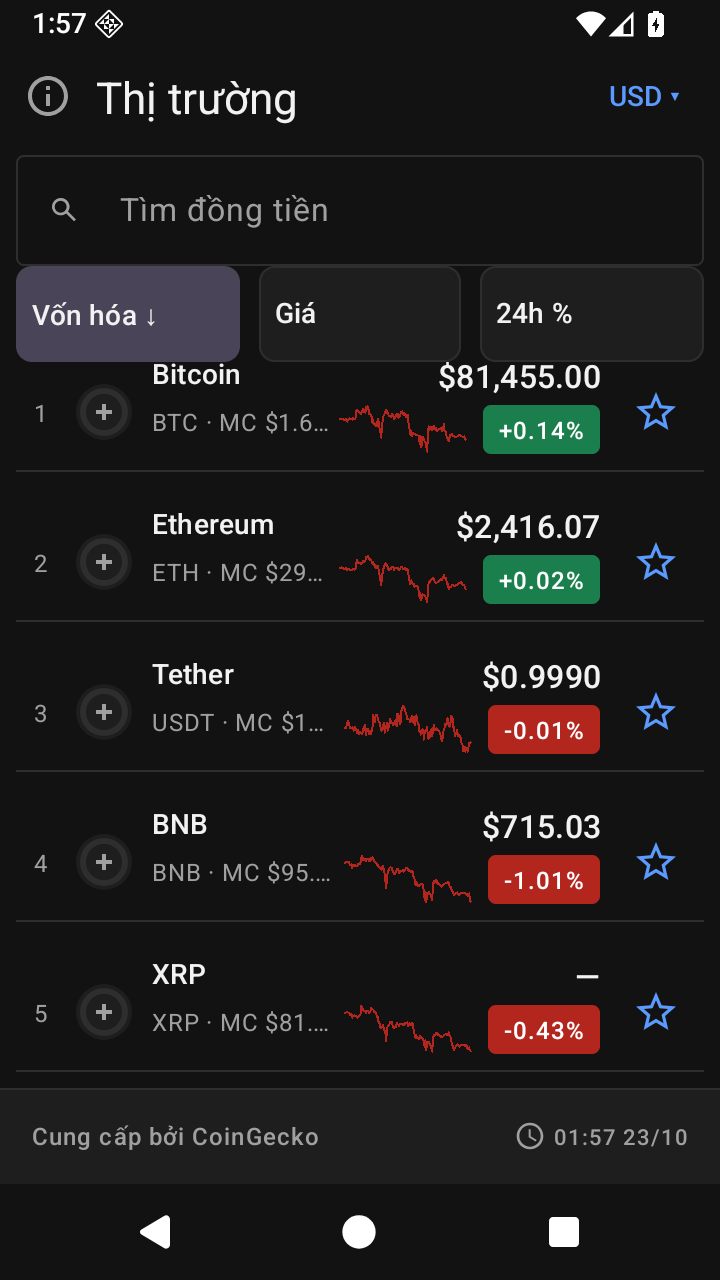
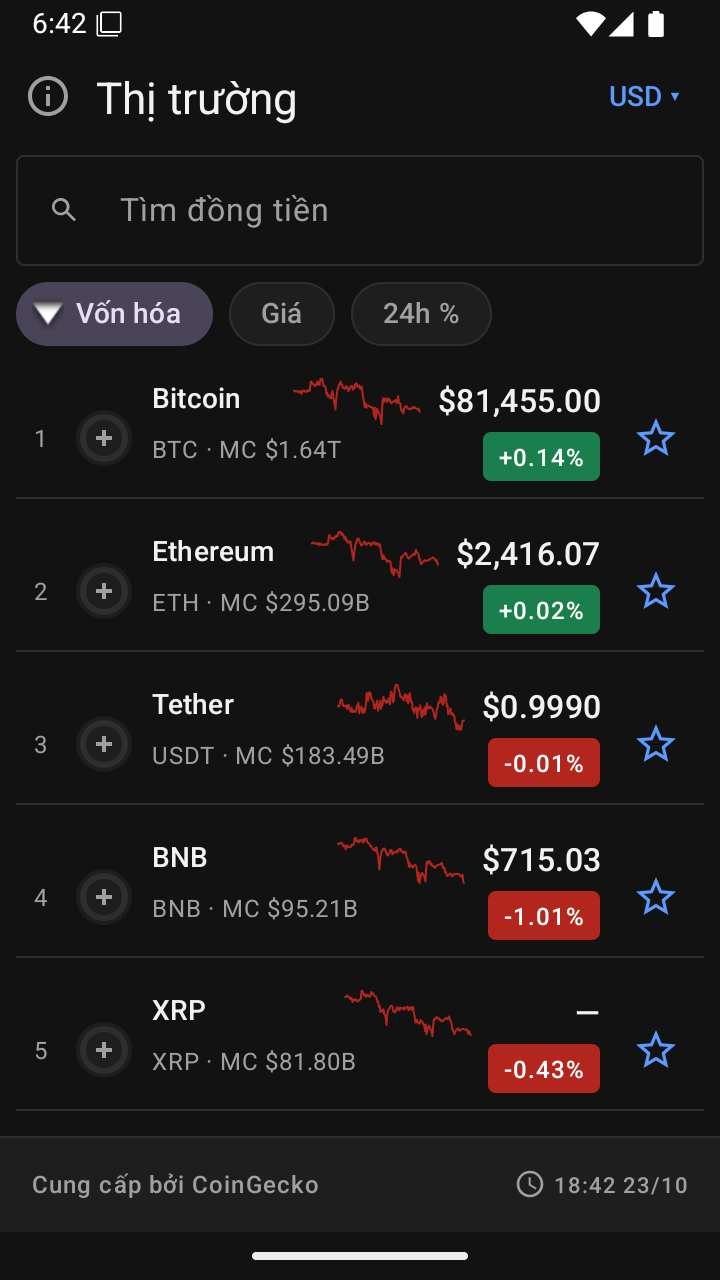
fix(market-list): keep market cap and attribution visible, tidy sort chips (FR-ML-01, FR-ML-04, FR-INFO-01)
- Move the sparkline to the first row line, as drawn in CMP-01, so the
  symbol and market cap line is no longer cut; the name shrinks first.
- Sort chips: pill chips sized to their label in a ChipGroup, standard
  height with a 48 dp touch target; the active chip shows the platform
  arrow icon instead of an arrow character. Remove the unused arrow strings.
- Anchor the error and limit Snackbars above the footer so
  "Powered by CoinGecko" stays visible.
- UI test: assert the market cap line is not ellipsized.
- Retake the 360x640 and 411x891 dp screenshots (en, vi) and update evidence.

diff --git a/app/src/main/java/vn/edu/usth/cryptodashboard/features/marketlist/MarketListFragment.kt b/app/src/main/java/vn/edu/usth/cryptodashboard/features/marketlist/MarketListFragment.kt
@@ -62,7 +62,8 @@ class MarketListFragment : Fragment(R.layout.fragment_market_list) {
             },
             onFavoriteLimitReached = {
                 snackbar?.dismiss()
-                snackbar = Snackbar.make(view, R.string.favorite_full, Snackbar.LENGTH_LONG).also { it.show() }
+                snackbar = Snackbar.make(view, R.string.favorite_full, Snackbar.LENGTH_LONG)
+                    .setAnchorView(footer).also { it.show() }
             },
         )
         list.layoutManager = LinearLayoutManager(requireContext())
@@ -103,10 +104,12 @@ class MarketListFragment : Fragment(R.layout.fragment_market_list) {
                 })
                 val selected = model.sort.field == field
                 chip.isChecked = selected
-                chip.text = if (selected) getString(
-                    R.string.market_sort_active, label,
-                    getString(if (model.sort.ascending) R.string.market_arrow_up else R.string.market_arrow_down),
-                ) else label
+                chip.text = label
+                // CMP-05 / FR-ML-04: only the active chip shows the direction, with the platform's arrow icons.
+                if (selected) chip.setChipIconResource(
+                    if (model.sort.ascending) android.R.drawable.arrow_up_float
+                    else android.R.drawable.arrow_down_float,
+                ) else chip.chipIcon = null
                 chip.contentDescription = if (selected) getString(
                     if (model.sort.ascending) R.string.market_sorted_ascending else R.string.market_sorted_descending,
                     label,
@@ -157,8 +160,10 @@ class MarketListFragment : Fragment(R.layout.fragment_market_list) {
                     if (state.previousData != null && shownErrorVersion != model.errorVersion) {
                         shownErrorVersion = model.errorVersion
                         snackbar?.dismiss()
+                        // Anchored above the footer so "Powered by CoinGecko" stays visible (FR-INFO-01, CMP-08).
                         snackbar = Snackbar.make(view, errorMessage(state.error), Snackbar.LENGTH_INDEFINITE)
-                            .setAction(R.string.retry) { model.refresh() }.also { it.show() }
+                            .setAction(R.string.retry) { model.refresh() }
+                            .setAnchorView(footer).also { it.show() }
                     }
                 }
             }

diff --git a/app/src/androidTest/java/vn/edu/usth/cryptodashboard/features/marketlist/MarketScreenTest.kt b/app/src/androidTest/java/vn/edu/usth/cryptodashboard/features/marketlist/MarketScreenTest.kt
@@ -226,6 +226,11 @@ class MarketScreenTest {
             assertTrue("Long name ellipsizes", name.layout.getEllipsisCount(0) > 0)
             assertTrue("Seven-digit VND price fits", price.paint.measureText(price.text.toString()) <=
                 price.width - price.totalPaddingLeft - price.totalPaddingRight + 1)
+            for (row in listOf(rows[0], rows[2])) {
+                val subtitle = row.findViewById<TextView>(R.id.marketRowSubtitle)
+                assertEquals("Symbol and VND market cap must not be cut (FR-ML-01)",
+                    0, subtitle.layout.getEllipsisCount(0))
+            }
             for (id in listOf(R.id.marketRowPrice, R.id.marketRowChange, R.id.marketRowSparkline)) {
                 assertEquals(View.GONE, rows[1].findViewById<View>(id).visibility)
             }
